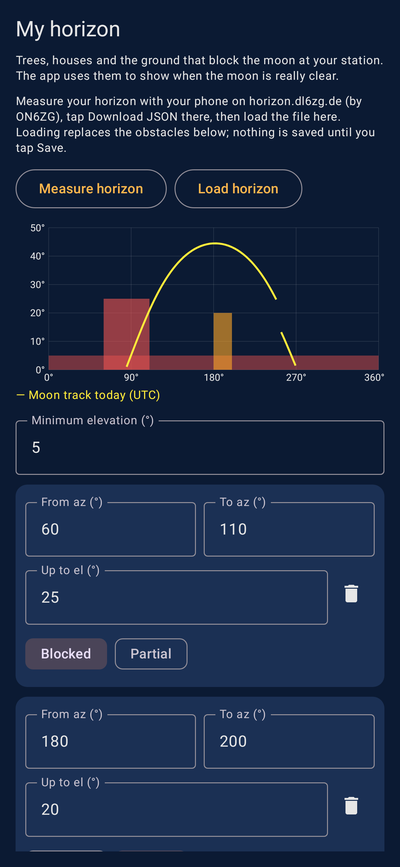
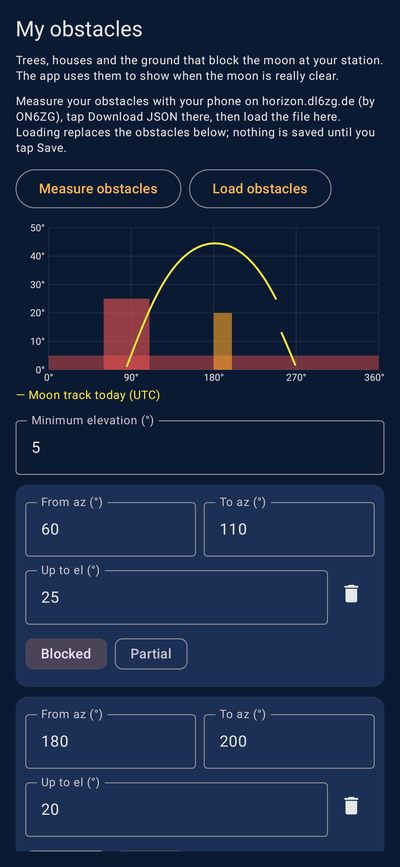
README: "My obstacles" and Live CQ without moon-down stations (#123)
Follows #116 ("obstacles" instead of "horizon" for the own horizon) and
#112 (Live CQ leaves out stations where the moon is below the horizon).
The 4 screenshots are rendered again on current main (v1.3.0).

Changed region(s): [[0.24, 0.1869, 0.78, 0.2491], [0.24, 0.0934, 0.93, 0.1246], [0.12, 0.0, 0.36, 0.0623]]

diff --git a/README.md b/README.md
@@ -12,28 +12,28 @@ What changed in each version: [Releases](https://github.com/on5gsdirk-cmd/EME-AP
 
 ## Screenshots
 
-| Moon | Deg | Live CQ | My horizon |
+| Moon | Deg | Live CQ | My obstacles |
 |---|---|---|---|
-| ![Moon tab with the world map, AZ/EL and rise and set times](docs/screenshots/moon.png) | ![Deg tab with the degradation now and the 30-day graph](docs/screenshots/deg.png) | ![Live CQ spots on 144, 432 and 23 cm](docs/screenshots/livecq.png) | ![My horizon with two obstacles and today's moon track](docs/screenshots/horizon.png) |
+| ![Moon tab with the world map, AZ/EL and rise and set times](docs/screenshots/moon.png) | ![Deg tab with the degradation now and the 30-day graph](docs/screenshots/deg.png) | ![Live CQ spots on 144, 432 and 23 cm](docs/screenshots/livecq.png) | ![My obstacles with two obstacles and today's moon track](docs/screenshots/horizon.png) |
 
 ## Tabs
 
 | Tab | What it does |
 |---|---|
-| **Moon** | Moon AZ/EL for your locator (Meeus, topocentric), date and time (local + UTC), moonrise / culmination / moonset, and a world map showing where the moon is above the horizon, the current moon phase and the Live CQ stations in the colour of their band. With an own horizon (see below) it also shows whether the moon is clear of your horizon, and the next window in which it is. |
+| **Moon** | Moon AZ/EL for your locator (Meeus, topocentric), date and time (local + UTC), moonrise / culmination / moonset, and a world map showing where the moon is above the horizon, the current moon phase and the Live CQ stations in the colour of their band. With your own obstacles (see below) it also shows whether the moon is clear of your obstacles, and the next window in which it is. |
 | **Deg** | EME degradation as calculated by MMMonVHF, per band from 50 to 1296 MHz: the value right now, a 30-day graph around a chosen date with moon distance, declination and full and new moon, a calendar that marks the best days of the month, and the best days of the graph as a list. |
 | **HB9Q** | The HB9Q EME chat, **read only** (agreed with HB9Q), per band, with three sub-pages: **Messages**; **QRV**, the stations that wrote recently; and **Chat CQ**, the CQ calls of the last 60 minutes as a table. Includes a "Log out" button. |
 | **N0UK** | The N0UK WSJT EME chat (144 MHz), **read only**, with the same three sub-pages: Messages, QRV (with date and time) and Chat CQ (last 60 minutes, with frequency, period, mode, locator and moon elevation; a CQ is greyed out when the station later wrote "stop"). Fetched at most once every 90 s. |
-| **Live CQ** | CQ spots from W3SZ Live CQ and N6NU Live CQ together (MAP65/Q65/WSJT-X, CQ calls only), filtered per band, showing where each spot comes from and whether the station has the moon above its horizon. "Moon at your QTH" uses your own horizon when you have one. |
+| **Live CQ** | CQ spots from W3SZ Live CQ and N6NU Live CQ together (MAP65/Q65/WSJT-X, CQ calls only), filtered per band, showing where each spot comes from and the moon elevation at the station. Stations where the moon is below the horizon are left out, in the list and on the map. "Moon at your QTH" uses your own obstacles when you have them. |
 
 **Settings** (the gear at the top right): callsign, locator, HB9Q login (stored encrypted with the
-Android Keystore), language, My horizon, and a link to the release notes of the installed version.
+Android Keystore), language, My obstacles, and a link to the release notes of the installed version.
 
-**My horizon** (in Settings): the trees, houses and ground that block the moon at your station.
+**My obstacles** (in Settings): the trees, houses and ground that block the moon at your station.
 Enter a minimum elevation and obstacles from azimuth to azimuth, blocked or partial, or measure
-them: "Measure horizon" opens horizon.dl6zg.de (by ON6ZG) on your phone, and "Load horizon" turns
-the downloaded survey into obstacles. A chart shows your horizon with today's moon track. With the
-diameter of your dish and its band, half the beamwidth is added above your horizon, so the edge of
+them: "Measure obstacles" opens horizon.dl6zg.de (by ON6ZG) on your phone, and "Load obstacles" turns
+the downloaded survey into obstacles. A chart shows your obstacles with today's moon track. With the
+diameter of your dish and its band, half the beamwidth is added above your obstacles, so the edge of
 the beam is clear too.
 
 The app has a dark blue theme and 13 languages (NL, FR, EN, DE, ES, IT, PT, SV, DA, FI, RU, ZH, JA).
@@ -41,7 +41,7 @@ The app has a dark blue theme and 13 languages (NL, FR, EN, DE, ES, IT, PT, SV, 
 ## Web app (iPhone)
 
 iPhone users cannot install the APK. Open **https://eme.on8ar.eu** in Safari instead. It has the same
-screens as the app (Moon, Deg, HB9Q, N0UK, Live CQ, Settings and My horizon), the same calculations and
+screens as the app (Moon, Deg, HB9Q, N0UK, Live CQ, Settings and My obstacles), the same calculations and
 the same 13 languages. The HB9Q tab needs your own HB9Q login, entered in Settings; the web app keeps it
 only in your browser. Live CQ and the N0UK chat are fetched once for all web users together, at the same
 intervals as the app.
@@ -79,7 +79,7 @@ app/src/main/java/be/on5gs/eme/
   cq/            Live CQ from W3SZ (CSV export) and N6NU (JSON), band colours
   chat/          HB9Q chat (read only), Chat CQ parsing
   n0uk/          N0UK chat (read only), its CQ parsing
-  horizon/       own horizon, horizon survey import, moon windows, My horizon screen
+  horizon/       own horizon, horizon survey import, moon windows, My obstacles screen
   settings/      settings, encrypted login, language selection
   ui/theme/      theme
 app/src/main/res/values*/strings.xml   translations
